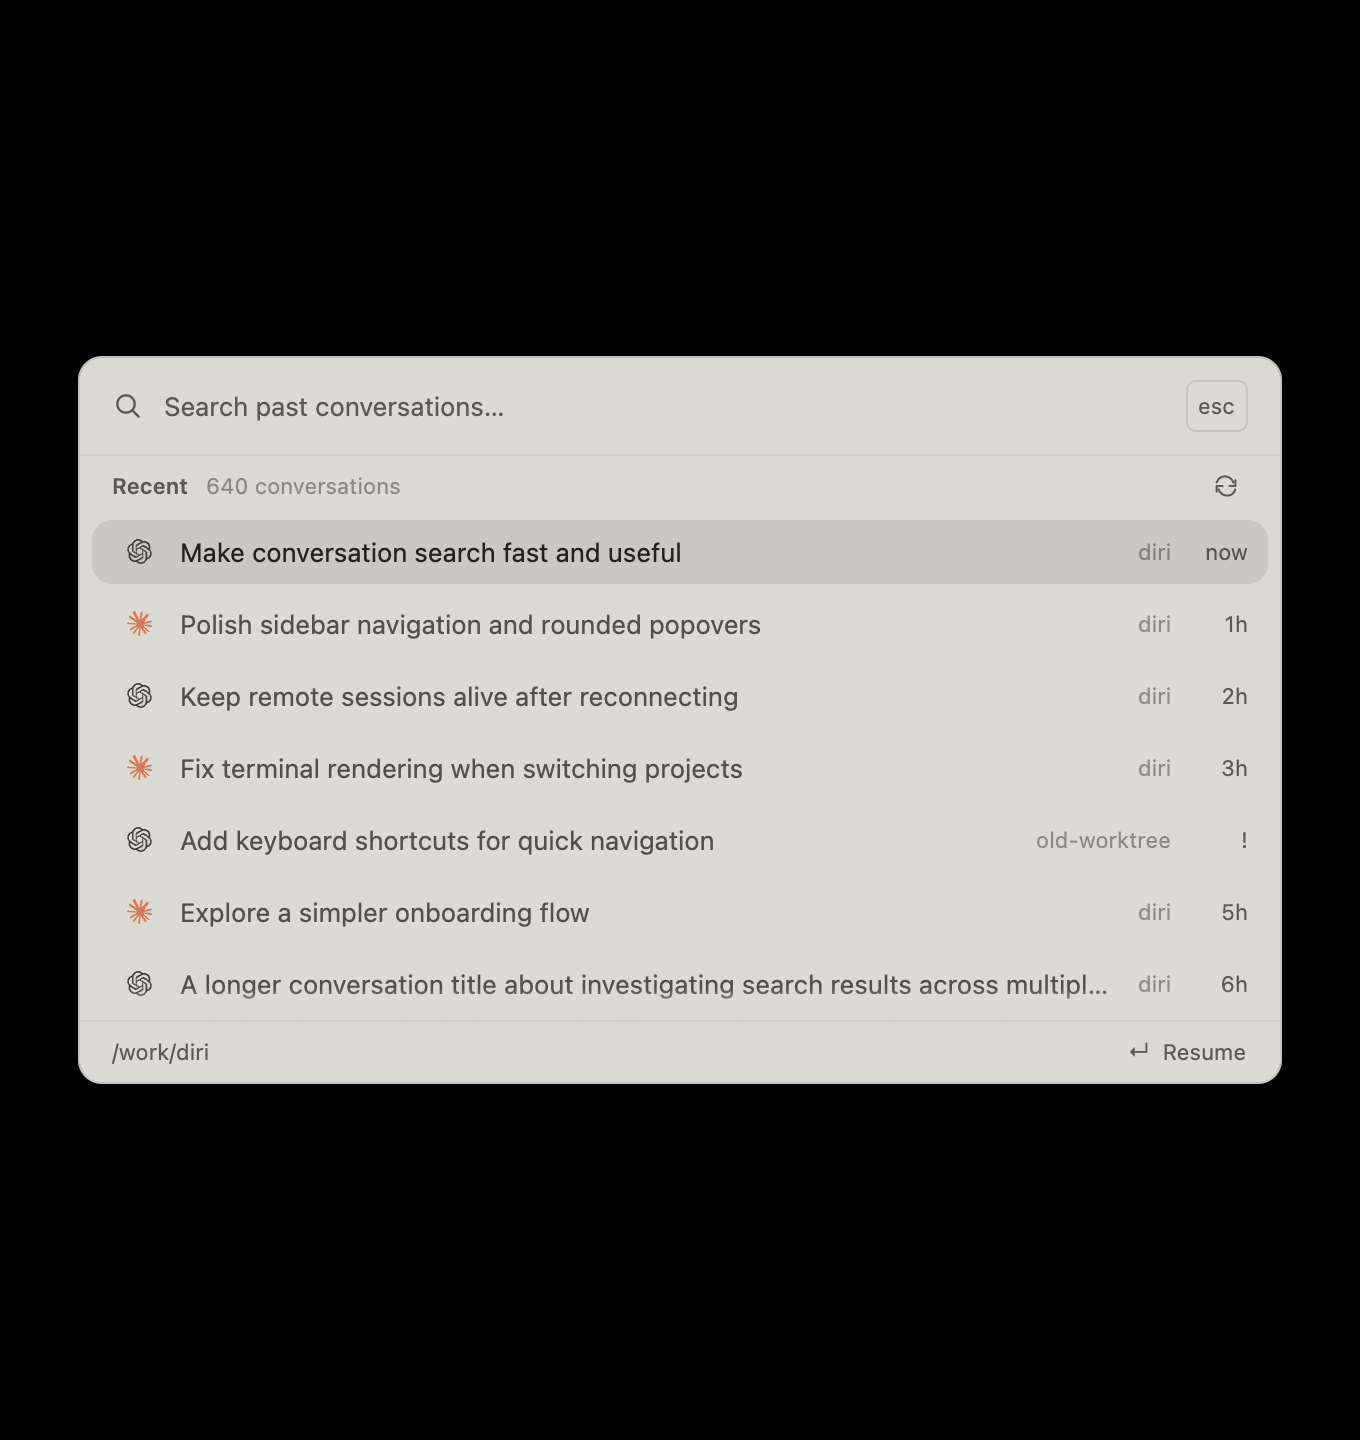
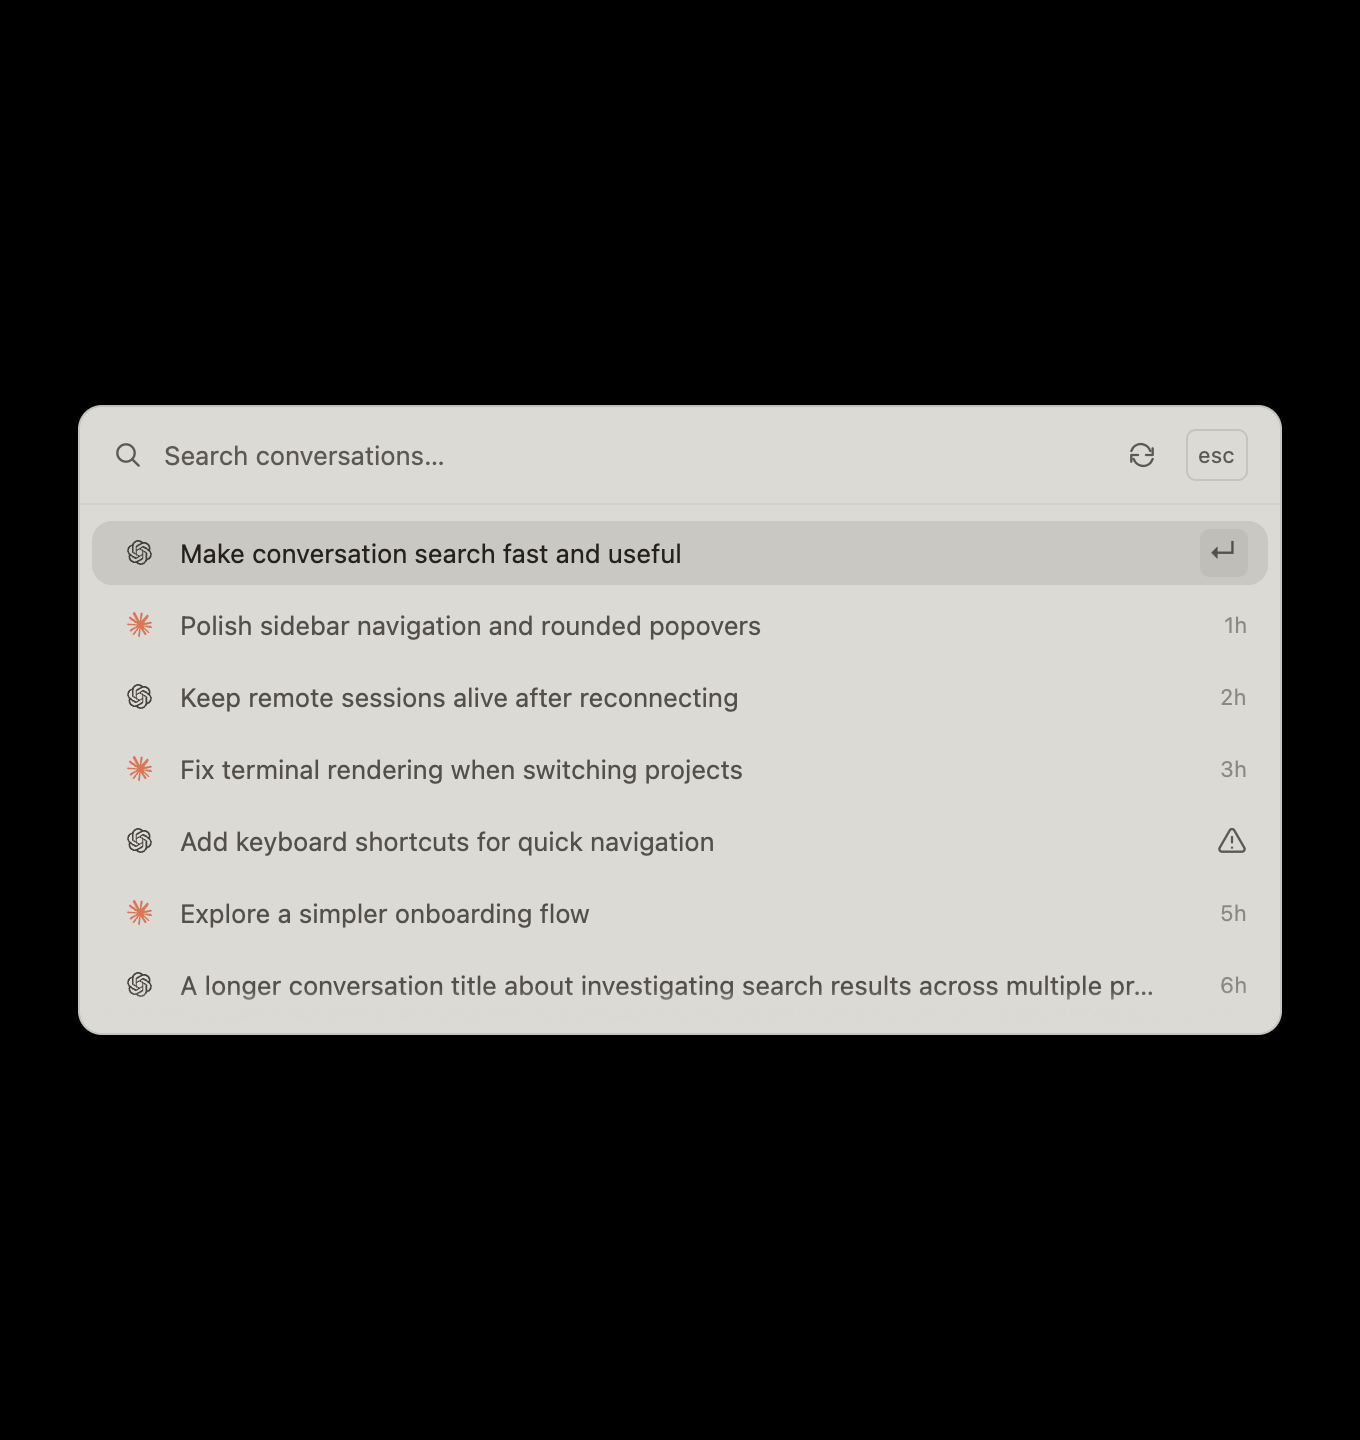
Strip history chrome and reveal contextual row actions

diff --git a/diri/crates/diri-app/src/surface_shell.rs b/diri/crates/diri-app/src/surface_shell.rs
@@ -1646,7 +1646,6 @@ impl UtilitySurfaces {
         let resumable = entry.cwd_exists;
         let opening = self.history_resuming.as_deref() == Some(&entry.id);
         let busy = self.history_resuming.is_some();
-        let folder = folder_name(&entry.cwd).to_owned();
         let title = entry
             .title
             .clone()
@@ -1671,6 +1670,7 @@ impl UtilitySurfaces {
                 div()
                     .id(("history-row", index))
                     .debug_selector(move || format!("history-row-{index}"))
+                    .group("history-row")
                     .h_full()
                     .px(px(10.0))
                     .rounded(px(Radius::CARD))
@@ -1678,7 +1678,10 @@ impl UtilitySurfaces {
                     .items_center()
                     .gap(px(6.0))
                     .bg(Fill::selected(colors, selected))
-                    .when(resumable && !busy, |row| row.cursor_pointer())
+                    .when(resumable && !busy, |row| {
+                        row.cursor_pointer()
+                            .active(move |style| style.bg(colors.primary.alpha(0.14)))
+                    })
                     .when(!resumable, |row| {
                         row.cursor(CursorStyle::OperationNotAllowed)
                     })
@@ -1710,25 +1713,47 @@ impl UtilitySurfaces {
                     )
                     .child(
                         div()
-                            .max_w(px(88.0))
-                            .text_size(px(Typo::META.size))
-                            .text_color(colors.tertiary)
-                            .truncate()
-                            .child(folder),
-                    )
-                    .child(
-                        div()
+                            .relative()
                             .flex_none()
                             .w(px(32.0))
-                            .text_right()
-                            .text_size(px(Typo::META.size))
-                            .text_color(colors.secondary)
+                            .h(px(24.0))
+                            .flex()
+                            .items_center()
+                            .justify_end()
                             .child(if opening {
-                                "…".to_owned()
+                                LoadingIndicator::new("history-opening", 12.0, colors.secondary)
+                                    .into_any_element()
                             } else if !resumable {
-                                "!".to_owned()
+                                sf_symbol("exclamationmark.triangle", 12.0, colors.secondary)
                             } else {
-                                age
+                                div()
+                                    .text_size(px(Typo::META.size))
+                                    .text_color(colors.tertiary)
+                                    .when(selected && !busy, |age| age.invisible())
+                                    .when(!busy, |age| {
+                                        age.group_hover("history-row", |style| style.invisible())
+                                    })
+                                    .child(age)
+                                    .into_any_element()
+                            })
+                            .when(resumable && !busy, |slot| {
+                                slot.child(
+                                    div()
+                                        .absolute()
+                                        .right_0()
+                                        .top_0()
+                                        .size(px(24.0))
+                                        .flex()
+                                        .items_center()
+                                        .justify_center()
+                                        .rounded(px(Radius::CHIP))
+                                        .bg(Fill::subtle(colors))
+                                        .text_size(px(14.0))
+                                        .text_color(colors.secondary)
+                                        .when(!selected, |cue| cue.invisible())
+                                        .group_hover("history-row", |style| style.visible())
+                                        .child("↵"),
+                                )
                             }),
                     ),
             )
@@ -1739,17 +1764,6 @@ impl UtilitySurfaces {
         let colors = self.settings_colors();
         let count = self.history_matches.len();
         let entity = cx.entity();
-        let selected = self.highlighted_history();
-        let status = if self.history_resuming.is_some() {
-            "Opening…".to_owned()
-        } else if self.history_loading {
-            "Updating…".to_owned()
-        } else if self.history_query.is_empty() {
-            format!("{count} conversations")
-        } else {
-            format!("{count} matches")
-        };
-
         FloatingSurface::new(
             colors,
             div()
@@ -1779,7 +1793,7 @@ impl UtilitySurfaces {
                                     colors.primary
                                 })
                                 .child(if self.history_query.is_empty() {
-                                    div().child("Search past conversations…").into_any_element()
+                                    div().child("Search conversations…").into_any_element()
                                 } else {
                                     query_label(&self.history_query)
                                 }),
@@ -1807,6 +1821,38 @@ impl UtilitySurfaces {
                         })
                         .child(
                             div()
+                                .id("refresh-history")
+                                .size(px(24.0))
+                                .rounded(px(Radius::CHIP))
+                                .flex()
+                                .items_center()
+                                .justify_center()
+                                .when(!self.history_loading, |button| {
+                                    button
+                                        .cursor_pointer()
+                                        .hover(move |style| style.bg(Fill::hover(colors, true)))
+                                        .active(move |style| style.bg(colors.primary.alpha(0.12)))
+                                })
+                                .tooltip(move |_, cx| {
+                                    cx.new(|_| {
+                                        HistoryTooltip("Refresh conversations".into(), colors)
+                                    })
+                                    .into()
+                                })
+                                .on_click(cx.listener(|this, _, _, cx| this.refresh_history(cx)))
+                                .child(if self.history_loading {
+                                    LoadingIndicator::new(
+                                        "history-refreshing",
+                                        12.0,
+                                        colors.secondary,
+                                    )
+                                    .into_any_element()
+                                } else {
+                                    sf_symbol("arrow.triangle.2.circlepath", 12.0, colors.secondary)
+                                }),
+                        )
+                        .child(
+                            div()
                                 .id("close-history")
                                 .cursor_pointer()
                                 .rounded(px(Radius::CHIP))
@@ -1822,58 +1868,6 @@ impl UtilitySurfaces {
                         ),
                 )
                 .child(HairlineDivider::horizontal(colors))
-                .child(
-                    div()
-                        .px(px(16.0))
-                        .h(px(30.0))
-                        .flex()
-                        .items_center()
-                        .gap(px(8.0))
-                        .child(
-                            div()
-                                .text_size(px(Typo::SECTION_HEADER.size))
-                                .font_weight(Typo::SECTION_HEADER.weight)
-                                .text_color(colors.secondary)
-                                .child(if self.history_query.is_empty() {
-                                    "Recent"
-                                } else {
-                                    "Results"
-                                }),
-                        )
-                        .child(
-                            div()
-                                .flex_1()
-                                .text_size(px(Typo::META.size))
-                                .text_color(colors.tertiary)
-                                .child(status),
-                        )
-                        .child(
-                            div()
-                                .id("refresh-history")
-                                .size(px(22.0))
-                                .rounded(px(Radius::CHIP))
-                                .flex()
-                                .items_center()
-                                .justify_center()
-                                .when(!self.history_loading, |button| {
-                                    button
-                                        .cursor_pointer()
-                                        .hover(move |style| style.bg(Fill::hover(colors, true)))
-                                })
-                                .tooltip(move |_, cx| {
-                                    cx.new(|_| {
-                                        HistoryTooltip("Refresh conversations".into(), colors)
-                                    })
-                                    .into()
-                                })
-                                .on_click(cx.listener(|this, _, _, cx| this.refresh_history(cx)))
-                                .child(sf_symbol(
-                                    "arrow.triangle.2.circlepath",
-                                    11.0,
-                                    colors.secondary,
-                                )),
-                        ),
-                )
                 .when_some(self.history_error.clone(), |view, error| {
                     view.child(
                         div()
@@ -1886,6 +1880,7 @@ impl UtilitySurfaces {
                 })
                 .child(
                     div()
+                        .my(px(6.0))
                         .relative()
                         .h(px(HISTORY_LIST_HEIGHT))
                         .overflow_hidden()
@@ -1920,58 +1915,13 @@ impl UtilitySurfaces {
                                             .child(if self.history_loading {
                                                 "Finding conversations…"
                                             } else if self.history_query.is_empty() {
-                                                "No past conversations yet"
+                                                "No conversations yet"
                                             } else {
-                                                "No matching conversations"
-                                            }),
-                                    )
-                                    .child(
-                                        div()
-                                            .text_size(px(Typo::META.size))
-                                            .text_color(colors.secondary)
-                                            .child(if self.history_query.is_empty() {
-                                                "Claude and Codex chats will appear here."
-                                            } else {
-                                                "Try a title, project, or agent."
+                                                "No matches"
                                             }),
                                     ),
                             )
                         }),
-                )
-                .child(HairlineDivider::horizontal(colors))
-                .child(
-                    div()
-                        .px(px(16.0))
-                        .h(px(30.0))
-                        .flex()
-                        .items_center()
-                        .gap(px(12.0))
-                        .child(
-                            div()
-                                .min_w(px(0.0))
-                                .flex_1()
-                                .text_size(px(Typo::META.size))
-                                .text_color(colors.secondary)
-                                .truncate()
-                                .child(
-                                    selected
-                                        .map(|entry| compact_history_path(&entry.cwd))
-                                        .unwrap_or_default(),
-                                ),
-                        )
-                        .child(
-                            div()
-                                .flex_none()
-                                .text_size(px(Typo::META.size))
-                                .text_color(colors.secondary)
-                                .child(if selected.is_some_and(|entry| !entry.cwd_exists) {
-                                    "Folder unavailable"
-                                } else if selected.is_some() {
-                                    "↵  Resume"
-                                } else {
-                                    "↑ ↓  Navigate"
-                                }),
-                        ),
                 ),
         )
         .radius(Radius::PANEL)
@@ -6377,19 +6327,6 @@ fn folder_name(path: &str) -> &str {
         .file_name()
         .and_then(|name| name.to_str())
         .unwrap_or(path)
-}
-
-fn compact_history_path(path: &str) -> String {
-    if let Some(home) = std::env::var_os("HOME")
-        && let Ok(relative) = Path::new(path).strip_prefix(home)
-    {
-        return if relative.as_os_str().is_empty() {
-            "~".to_owned()
-        } else {
-            format!("~/{}", relative.display())
-        };
-    }
-    path.to_owned()
 }
 
 struct HistoryTooltip(String, SemanticColors);

diff --git a/docs/images/conversation-history/README.md b/docs/images/conversation-history/README.md
@@ -1,8 +1,8 @@
 # Past conversations
 
-The history picker uses a single search header, 36-point single-line rows, and the shared panel and row corner radii. Unboxed agent marks and conversation titles lead each row, with quieter project names and ages aligned on the right. Hover for the full title, agent, and path; the selected project's path and a Resume hint appear in the footer. Search still matches titles, projects, and agents.
+The history picker is a search header and 36-point single-line rows. Agent marks and titles lead the list; ages stay quiet. There is no count strip, repeated project column, or footer. Hover a row for its full title, agent, path, and any folder warning. Search still matches titles, projects, and agents.
 
-The result list fades at edges with more content and remains clear when all results fit. The shared floating surface provides its entrance fade and respects Reduce Motion.
+A return-key cue replaces the age on the selected or hovered row without shifting its title. Pressed rows give immediate feedback. Refreshing and opening use the shared activity indicator, which respects Reduce Motion. The result list fades at edges with more content, and the floating surface retains its short entrance fade.
 
 The screenshots use synthetic history without a live daemon. Regenerate from `diri/`:
 
